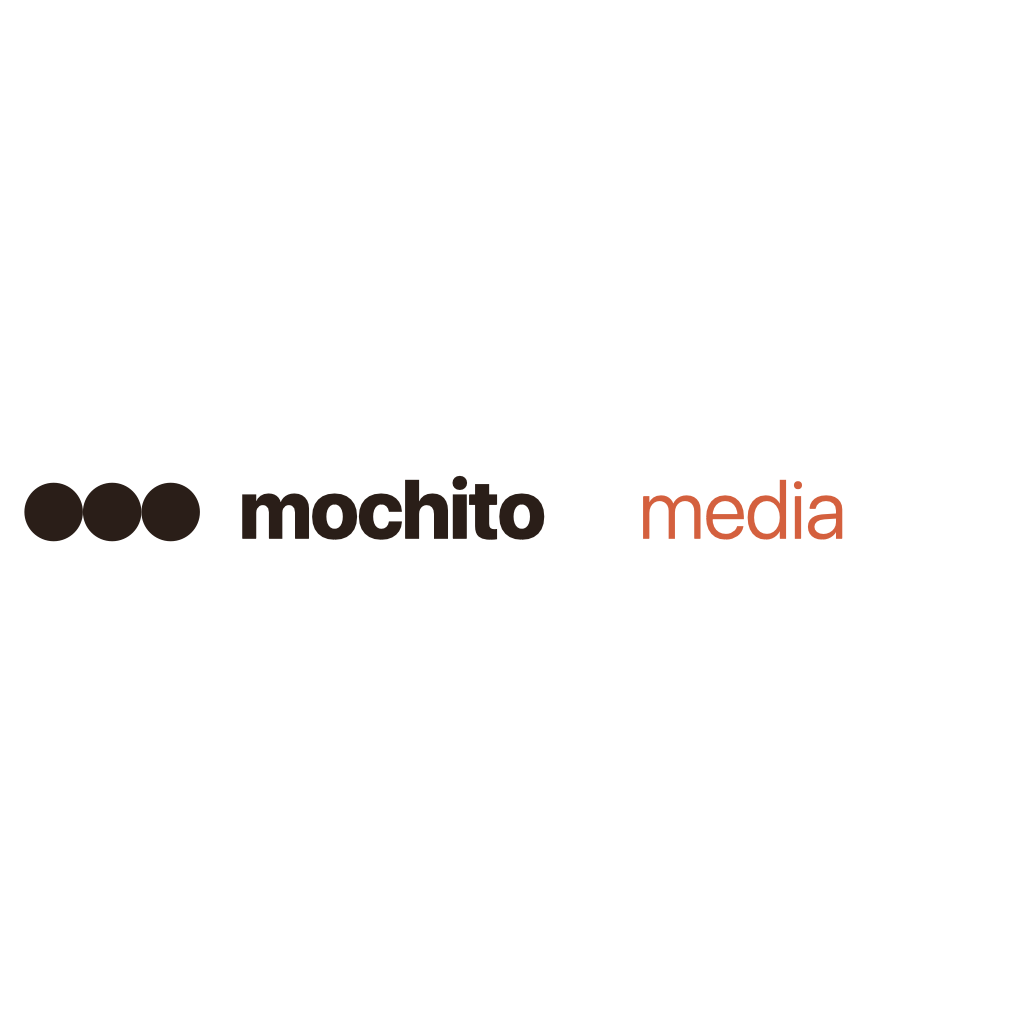
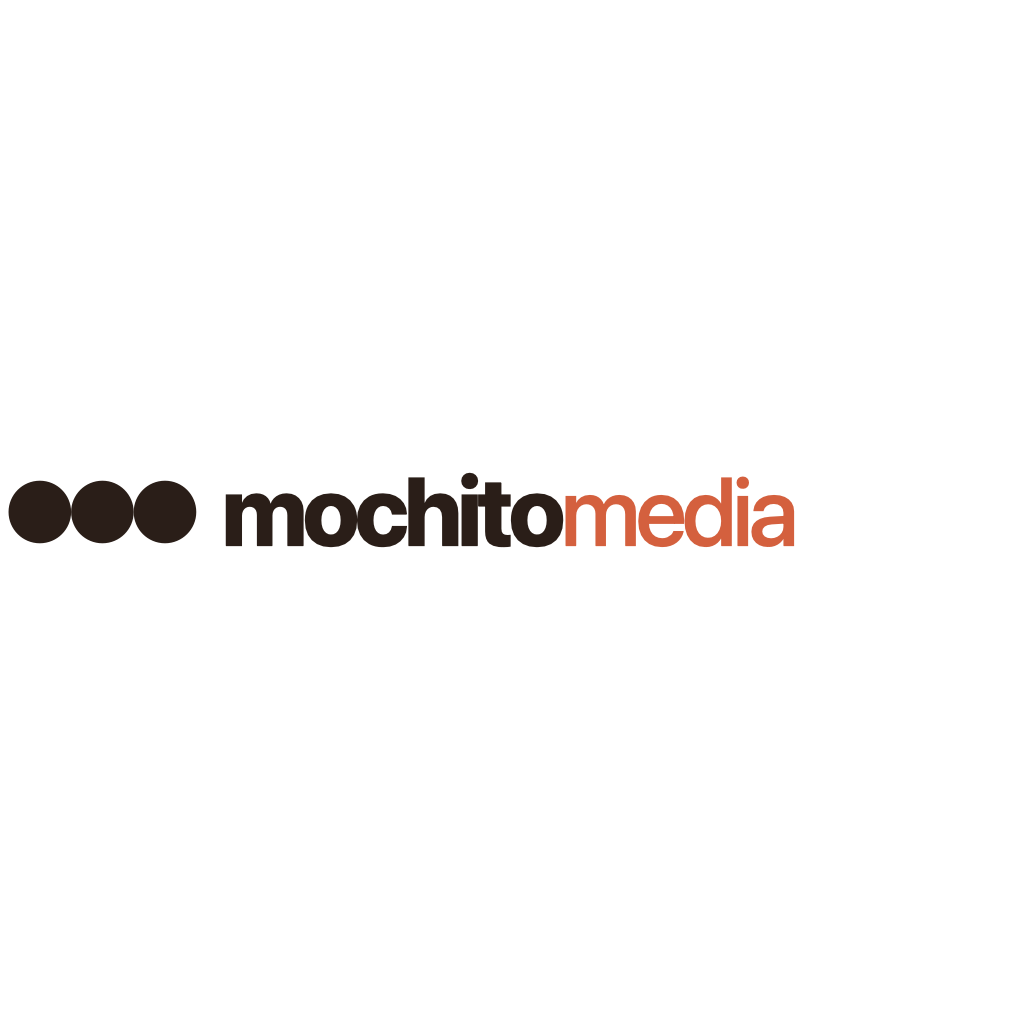
Compact wordmark, intensify ocre, fix yellow-on-white contrast, visible method numbers

Changed region(s): [[0.2188, 0.4375, 0.8438, 0.5312], [0.0, 0.4688, 0.1562, 0.5312]]

diff --git a/src/App.jsx b/src/App.jsx
@@ -91,16 +91,18 @@ function Navbar() {
       borderBottom: scrolled ? "1px solid rgba(212,96,62,0.2)" : "none",
     }}>
       <div style={{ maxWidth: 1200, margin: "0 auto", padding: "16px 24px", display: "flex", alignItems: "center", justifyContent: "space-between" }}>
-        <a href="#hero" style={{ textDecoration: "none", display: "flex", alignItems: "center", gap: 10, color: "#fff" }}>
-          <Logo size={36} />
-          <span style={{ color: "#fff", fontWeight: 800, fontSize: 20, letterSpacing: "-0.5px" }}>mochito</span>
-          <span style={{ color: "#E5B24C", fontWeight: 300, fontSize: 20 }}>media</span>
+        <a href="#hero" style={{ textDecoration: "none", display: "flex", alignItems: "center", gap: 8, color: "#fff" }}>
+          <Logo size={32} />
+          <span style={{ display: "flex", alignItems: "baseline", fontSize: 21, letterSpacing: "-1.2px", lineHeight: 1 }}>
+            <span style={{ color: "#fff", fontWeight: 800 }}>mochito</span>
+            <span style={{ color: "#F5B83E", fontWeight: 500 }}>media</span>
+          </span>
         </a>
         {/* Desktop */}
         <div style={{ display: "flex", alignItems: "center", gap: 32 }} className="hidden-mobile">
           {links.map(l => (
             <a key={l.href} href={l.href} style={{ color: "rgba(255,255,255,0.8)", textDecoration: "none", fontSize: 14, fontWeight: 500, letterSpacing: "0.5px", transition: "color 0.3s" }}
-              onMouseEnter={e => e.target.style.color = "#E5B24C"} onMouseLeave={e => e.target.style.color = "rgba(255,255,255,0.8)"}>{l.label}</a>
+              onMouseEnter={e => e.target.style.color = "#F5B83E"} onMouseLeave={e => e.target.style.color = "rgba(255,255,255,0.8)"}>{l.label}</a>
           ))}
           <a href="#contacto" style={{
             background: "#D4603E", color: "#fff", padding: "10px 24px",
@@ -148,17 +150,17 @@ function Hero() {
 
       <div style={{ position: "relative", zIndex: 2, textAlign: "center", maxWidth: 900, padding: "0 24px" }}>
         <FadeIn delay={0.1}>
-          <div style={{ display: "inline-flex", alignItems: "center", gap: 8, background: "rgba(229,178,76,0.15)", border: "1px solid rgba(229,178,76,0.35)", borderRadius: 50, padding: "8px 20px", marginBottom: 32 }}>
-            <Sparkles size={14} color="#E5B24C" />
-            <span style={{ color: "#E5B24C", fontSize: 13, fontWeight: 600, letterSpacing: "1px", textTransform: "uppercase" }}>Creadores UGC, storytelling real</span>
+          <div style={{ display: "inline-flex", alignItems: "center", gap: 8, background: "rgba(245,184,62,0.15)", border: "1px solid rgba(245,184,62,0.35)", borderRadius: 50, padding: "8px 20px", marginBottom: 32 }}>
+            <Sparkles size={14} color="#F5B83E" />
+            <span style={{ color: "#F5B83E", fontSize: 13, fontWeight: 600, letterSpacing: "1px", textTransform: "uppercase" }}>Creadores UGC, storytelling real</span>
           </div>
         </FadeIn>
         <FadeIn delay={0.3}>
           <h1 style={{ fontSize: "clamp(40px, 7vw, 80px)", fontWeight: 800, color: "#fff", lineHeight: 1.05, margin: "0 0 24px", letterSpacing: "-2px" }}>
             Tu marca tiene una<br />
             <span style={{ position: "relative", display: "inline-block" }}>
-              <span style={{ color: "#E5B24C" }}>{words[textIdx]}</span>
-              <span style={{ position: "absolute", bottom: -4, left: 0, right: 0, height: 4, background: "linear-gradient(90deg, #E5B24C, transparent)", borderRadius: 2 }} />
+              <span style={{ color: "#F5B83E" }}>{words[textIdx]}</span>
+              <span style={{ position: "absolute", bottom: -4, left: 0, right: 0, height: 4, background: "linear-gradient(90deg, #F5B83E, transparent)", borderRadius: 2 }} />
             </span>
             <br />que merece ser contada.
           </h1>
@@ -356,7 +358,7 @@ function AboutSection() {
                 { n: 80, s: "%", l: "más recuerdo de marca" },
               ].map((s, i) => (
                 <div key={i} style={{ textAlign: "center" }}>
-                  <div style={{ fontSize: 32, fontWeight: 800, color: "#E5B24C" }}><Counter end={s.n} />{s.s}</div>
+                  <div style={{ fontSize: 32, fontWeight: 800, color: "#D4603E" }}><Counter end={s.n} />{s.s}</div>
                   <div style={{ fontSize: 12, color: "#6B7280", maxWidth: 100, lineHeight: 1.4, marginTop: 4 }}>{s.l}</div>
                 </div>
               ))}
@@ -404,7 +406,7 @@ function ServicesSection() {
                   <div style={{ width: 52, height: 52, borderRadius: 14, background: "#D4603E", display: "flex", alignItems: "center", justifyContent: "center", color: "#fff" }}>
                     {s.icon}
                   </div>
-                  <span style={{ background: "rgba(212,96,62,0.1)", color: "#E5B24C", fontSize: 11, fontWeight: 700, padding: "4px 12px", borderRadius: 50, letterSpacing: "0.5px", textTransform: "uppercase" }}>{s.tag}</span>
+                  <span style={{ background: "rgba(212,96,62,0.12)", color: "#D4603E", fontSize: 11, fontWeight: 700, padding: "4px 12px", borderRadius: 50, letterSpacing: "0.5px", textTransform: "uppercase" }}>{s.tag}</span>
                 </div>
                 <h3 style={{ fontSize: 20, fontWeight: 700, color: "#2A1E18", marginBottom: 12 }}>{s.title}</h3>
                 <p style={{ color: "#6B7280", fontSize: 15, lineHeight: 1.7, margin: 0, flex: 1 }}>{s.desc}</p>
@@ -533,7 +535,7 @@ function PortfolioSection() {
         <FadeIn delay={0.3}>
           <div style={{ textAlign: "center", marginTop: 48 }}>
             <a href="#contacto" style={{
-              display: "inline-flex", alignItems: "center", gap: 8, color: "#E5B24C",
+              display: "inline-flex", alignItems: "center", gap: 8, color: "#D4603E",
               fontWeight: 700, fontSize: 16, textDecoration: "none", transition: "gap 0.3s",
             }} onMouseEnter={e => e.currentTarget.style.gap = "12px"}
               onMouseLeave={e => e.currentTarget.style.gap = "8px"}>
@@ -551,7 +553,7 @@ function MethodSection() {
   const steps = [
     { n: "01", icon: <Eye size={28} />, title: "Contexto", desc: "Situamos al espectador en un mundo que reconoce. En los primeros 3 segundos, tiene que pensar: esto va conmigo.", color: "#D4603E" },
     { n: "02", icon: <Zap size={28} />, title: "Tensión", desc: "Introducimos el conflicto. ¿Qué pasa si no se resuelve? La tensión genera atención y mantiene enganchado.", color: "#7A8B5C" },
-    { n: "03", icon: <Sparkles size={28} />, title: "Transformación", desc: "El producto entra como catalizador del cambio. El héroe es el cliente; tu producto es la herramienta.", color: "#E5B24C" },
+    { n: "03", icon: <Sparkles size={28} />, title: "Transformación", desc: "El producto entra como catalizador del cambio. El héroe es el cliente; tu producto es la herramienta.", color: "#F5B83E" },
     { n: "04", icon: <Heart size={28} />, title: "Resonancia", desc: "El cierre no es un CTA frío. Es un momento que deja huella. El espectador tiene que sentir algo.", color: "#F5EEDC" },
   ];
   return (
@@ -560,13 +562,13 @@ function MethodSection() {
       <div style={{ maxWidth: 1100, margin: "0 auto", position: "relative", zIndex: 2 }}>
         <FadeIn>
           <div style={{ textAlign: "center", marginBottom: 72 }}>
-            <span style={{ color: "#E5B24C", fontSize: 13, fontWeight: 700, letterSpacing: 2, textTransform: "uppercase", display: "block", marginBottom: 16 }}>Nuestra metodología</span>
+            <span style={{ color: "#F5B83E", fontSize: 13, fontWeight: 700, letterSpacing: 2, textTransform: "uppercase", display: "block", marginBottom: 16 }}>Nuestra metodología</span>
             <h2 style={{ fontSize: "clamp(32px, 5vw, 52px)", fontWeight: 800, color: "#fff", lineHeight: 1.1, margin: "0 0 20px", letterSpacing: "-1px" }}>
               No improvisamos.<br />
-              <span style={{ color: "#E5B24C" }}>Tenemos un método.</span>
+              <span style={{ color: "#F5B83E" }}>Tenemos un método.</span>
             </h2>
             <p style={{ color: "#F5EEDC", fontSize: 18, maxWidth: 600, margin: "0 auto", lineHeight: 1.7 }}>
-              Cada pieza de contenido sigue nuestra metodología narrativa: <strong style={{ color: "#E5B24C" }}>El Arco Mochito</strong>.
+              Cada pieza de contenido sigue nuestra metodología narrativa: <strong style={{ color: "#F5B83E" }}>El Arco Mochito</strong>.
             </p>
           </div>
         </FadeIn>
@@ -579,8 +581,8 @@ function MethodSection() {
                 backdropFilter: "blur(10px)",
               }} onMouseEnter={e => { e.currentTarget.style.background = "rgba(212,96,62,0.1)"; e.currentTarget.style.borderColor = "rgba(212,96,62,0.4)"; e.currentTarget.style.transform = "translateY(-6px)"; }}
                 onMouseLeave={e => { e.currentTarget.style.background = "rgba(255,255,255,0.05)"; e.currentTarget.style.borderColor = "rgba(212,96,62,0.15)"; e.currentTarget.style.transform = "none"; }}>
-                <div style={{ fontSize: 48, fontWeight: 900, color: "rgba(212,96,62,0.2)", marginBottom: 8, lineHeight: 1 }}>{s.n}</div>
-                <div style={{ color: "#E5B24C", marginBottom: 16 }}>{s.icon}</div>
+                <div style={{ fontSize: 56, fontWeight: 900, color: "#F5B83E", marginBottom: 8, lineHeight: 1, letterSpacing: "-2px" }}>{s.n}</div>
+                <div style={{ color: "#F5B83E", marginBottom: 16 }}>{s.icon}</div>
                 <h3 style={{ color: "#fff", fontSize: 22, fontWeight: 700, marginBottom: 12 }}>{s.title}</h3>
                 <p style={{ color: "#F5EEDC", fontSize: 15, lineHeight: 1.7, margin: 0 }}>{s.desc}</p>
               </div>
@@ -705,7 +707,7 @@ function ContactSection() {
                 <p style={{ textAlign: "center", color: "#C8493E", fontSize: 14, marginTop: 12 }}>{error}</p>
               )}
               <p style={{ textAlign: "center", color: "#6B7280", fontSize: 14, marginTop: 16 }}>
-                También puedes escribirnos a <strong style={{ color: "#E5B24C" }}>mochitomedia@gmail.com</strong>.
+                También puedes escribirnos a <strong style={{ color: "#D4603E" }}>mochitomedia@gmail.com</strong>.
               </p>
             </form>
           )}
@@ -722,16 +724,18 @@ function FooterSection() {
       <div style={{ maxWidth: 1100, margin: "0 auto" }}>
         <div style={{ display: "flex", justifyContent: "space-between", alignItems: "flex-start", flexWrap: "wrap", gap: 40, marginBottom: 48 }}>
           <div>
-            <div style={{ display: "flex", alignItems: "center", gap: 10, marginBottom: 12, color: "#fff" }}>
-              <Logo size={32} />
-              <span style={{ color: "#fff", fontWeight: 800, fontSize: 18 }}>mochito</span>
-              <span style={{ color: "#E5B24C", fontWeight: 300, fontSize: 18 }}>media</span>
+            <div style={{ display: "flex", alignItems: "center", gap: 8, marginBottom: 12, color: "#fff" }}>
+              <Logo size={28} />
+              <span style={{ display: "flex", alignItems: "baseline", fontSize: 19, letterSpacing: "-1.1px", lineHeight: 1 }}>
+                <span style={{ color: "#fff", fontWeight: 800 }}>mochito</span>
+                <span style={{ color: "#F5B83E", fontWeight: 500 }}>media</span>
+              </span>
             </div>
             <p style={{ color: "#F5EEDC", fontSize: 14, maxWidth: 280, lineHeight: 1.6 }}>Agencia de creadores UGC y creación de contenido con storytelling para marcas modernas.</p>
           </div>
           <div style={{ display: "flex", gap: 48, flexWrap: "wrap" }}>
             <div>
-              <h4 style={{ color: "#E5B24C", fontSize: 12, fontWeight: 700, letterSpacing: 1, textTransform: "uppercase", marginBottom: 16 }}>Navegación</h4>
+              <h4 style={{ color: "#F5B83E", fontSize: 12, fontWeight: 700, letterSpacing: 1, textTransform: "uppercase", marginBottom: 16 }}>Navegación</h4>
               {[
                 { label: "Nosotros", href: "/#nosotros" },
                 { label: "Servicios", href: "/#servicios" },
@@ -741,11 +745,11 @@ function FooterSection() {
                 { label: "Contacto", href: "/#contacto" },
               ].map(l => (
                 <a key={l.label} href={l.href} style={{ display: "block", color: "#F5EEDC", textDecoration: "none", fontSize: 14, marginBottom: 8, transition: "color 0.3s" }}
-                  onMouseEnter={e => e.target.style.color = "#E5B24C"} onMouseLeave={e => e.target.style.color = "#F5EEDC"}>{l.label}</a>
+                  onMouseEnter={e => e.target.style.color = "#F5B83E"} onMouseLeave={e => e.target.style.color = "#F5EEDC"}>{l.label}</a>
               ))}
             </div>
             <div>
-              <h4 style={{ color: "#E5B24C", fontSize: 12, fontWeight: 700, letterSpacing: 1, textTransform: "uppercase", marginBottom: 16 }}>Contacto</h4>
+              <h4 style={{ color: "#F5B83E", fontSize: 12, fontWeight: 700, letterSpacing: 1, textTransform: "uppercase", marginBottom: 16 }}>Contacto</h4>
               <p style={{ color: "#F5EEDC", fontSize: 14, marginBottom: 8 }}>mochitomedia@gmail.com</p>
               <div style={{ display: "flex", gap: 12, marginTop: 16 }}>
                 {[Instagram, Youtube, Linkedin, MessageCircle].map((Icon, i) => (
@@ -753,7 +757,7 @@ function FooterSection() {
                     width: 40, height: 40, borderRadius: 10, background: "rgba(255,255,255,0.05)",
                     border: "1px solid rgba(255,255,255,0.1)", display: "flex", alignItems: "center", justifyContent: "center",
                     color: "#F5EEDC", transition: "all 0.3s", textDecoration: "none",
-                  }} onMouseEnter={e => { e.currentTarget.style.background = "rgba(229,178,76,0.2)"; e.currentTarget.style.borderColor = "#E5B24C"; e.currentTarget.style.color = "#E5B24C"; }}
+                  }} onMouseEnter={e => { e.currentTarget.style.background = "rgba(245,184,62,0.2)"; e.currentTarget.style.borderColor = "#F5B83E"; e.currentTarget.style.color = "#F5B83E"; }}
                     onMouseLeave={e => { e.currentTarget.style.background = "rgba(255,255,255,0.08)"; e.currentTarget.style.borderColor = "rgba(255,255,255,0.15)"; e.currentTarget.style.color = "#F5EEDC"; }}>
                     <Icon size={18} />
                   </a>
